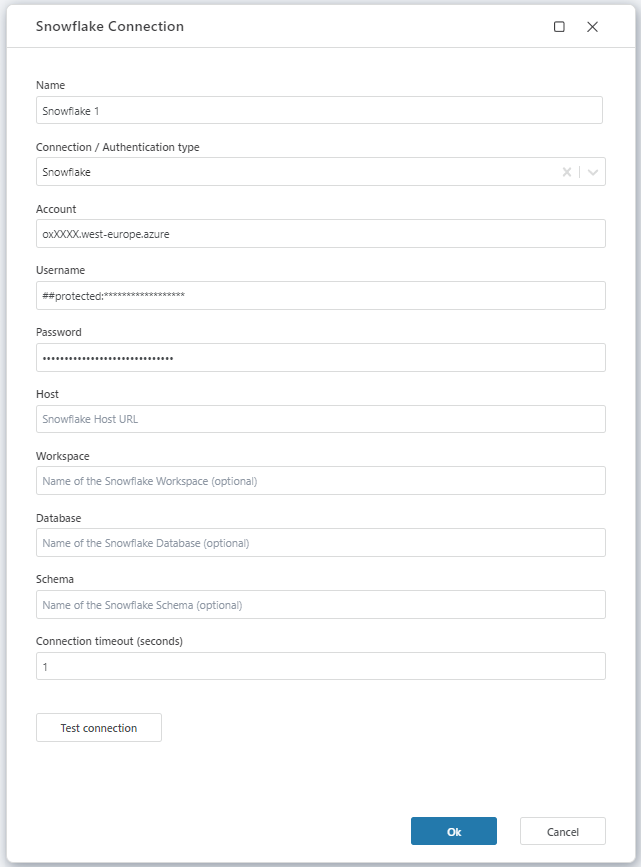
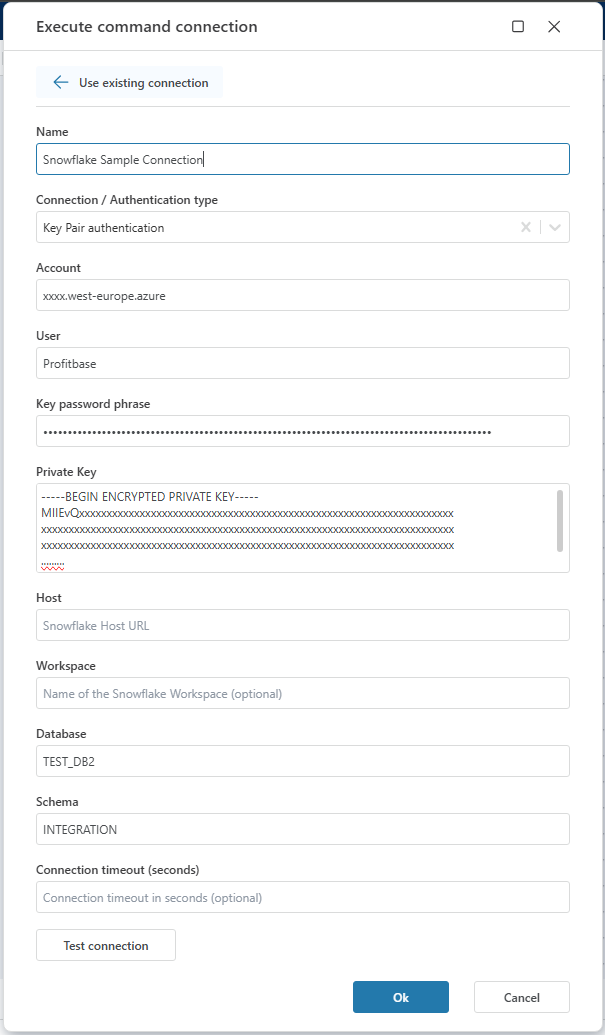
updage snowflake connection doc

diff --git a/articles/flow/actions/snowflake/connecting-to-snowflake.md b/articles/flow/actions/snowflake/connecting-to-snowflake.md
@@ -2,22 +2,25 @@
 
 To use Snowflake actions in **Profitbase Flow**, you must either select an existing connection or create a new one.
 
-[Ref: Logging in to Snowflake documentation](https://docs.snowflake.com/en/user-guide/connecting)  
-[Detailed connection string options](https://github.com/snowflakedb/snowflake-connector-net/blob/master/doc/Connecting.md)
-
 <br/>
 
-## Connection properties
+## Connection Type
+Before entering server details, select the appropriate connection type (authentication method). Available options:
+   
+ - Username and Password authentication (aka Snowflake, to be deprecated) 
+ - Programmatic Access Token authentication 
+ - Key Pair authentication 
+ - custom connection string  
 
-A Snowflake connection consists of the following fields:
 
-| Property           | Description |
-|---------------------|-------------|
-| Connection Name     | The name of the connection. |
-| Connection Type    (optional)  | Choose between a custom connection string (see below) or the default connection type. |
-| Account             | Full account name, including any segments that identify the region and cloud platform where the account is hosted. |
-| Username            | The username for the connection. |
-| Password            | The password for the connection. |
+## Generic connection properties
+
+A Snowflake connection consists of the following generic fields:
+
+| Property                   | Description                 |
+| -------------------------- | --------------------------- |
+| Connection Name            | The name of the connection. |
+| Account             | Either the Account name or the full Account name, including any segments that identify the region and cloud platform where the account is hosted. If the full Accont name is used, the Host property can then be ignored. |
 | Host               (optional)  | The hostname for your account in the format: `<ACCOUNT>.snowflakecomputing.com`. |
 | Workspace          (optional)  | The workspace name. |
 | Database            (optional) | The database name. |
@@ -26,7 +29,48 @@ A Snowflake connection consists of the following fields:
 
 <br/>
 
+## Username and Password authentication properties
+
+| Property            | Description   |
+| --------------------| -------------------------------- |
+| User                | The username for the connection. |
+| Password            | The password for the user. |
+
+### Note: this is to be deprecated. 
+
+
+<br/>
+
+## Programmatic Access Token authentication properties
+
+| Property      | Description                 |
+| ------------- | -------------------------------------------------------------- |
+| User          | The username for the connection. |
+| Access Token  | The Access Token created for the user in the Snowflake portal. |
+
+[Ref: configuring programmatic access tokens for authentication](https://docs.snowflake.com/en/user-guide/programmatic-access-tokens)
+<br/>
+
+## Key-Pair authentication properties
+
+| Property            | Description                 |
+| --------------------| ----------------------------------------------------------------------------------------- |
+| User                | The username for the connection. |
+| Key password phrase | The password /password phrase used when creating the encrypted key and/or the public key. |
+| Private Key         | The Private Key belonging to the Public Key added for the user in the Snowflake portal. |
+
+Note: The (pasted) Private Key should start with ----BEGIN [ENCRYPTED] PRIVATE KEY---- and end with ----END [ENCRYPTED] PRIVATE KEY----.
+
+[Ref: configuring key-pair for authentication](https://docs.snowflake.com/en/user-guide/key-pair-auth)
+<br/>
+
 ## Custom connection string
+
+| Property          | Description   |
+| ------------------| ------------------------------------------------------------------------------------------------ |
+| Connection String | Required | A full custom connection string that defines all necessary parameters for connecting. |
+| User              | The username for the connection. |
+| Password          | The password for the user. |
 
 A **custom connection string** can be used instead of filling individual fields.  
 This string overrides all standard connection settings except for the **username** and **password**, which are strongly recommended to be stored in protected fields rather than embedded directly into the connection string.
@@ -43,7 +87,7 @@ This string overrides all standard connection settings except for the **username
 
 - Ensure the account name and region match the Snowflake deployment.
 - If using a custom string, validate the connection before saving.
-- Sensitive values like passwords should not be placed directly in the connection string for security reasons.
+- Sensitive values like passwords should not be placed directly in the connection string for security reasons. One way to do this, is to use protected Workspace Variables.
 
 <br/>
 
